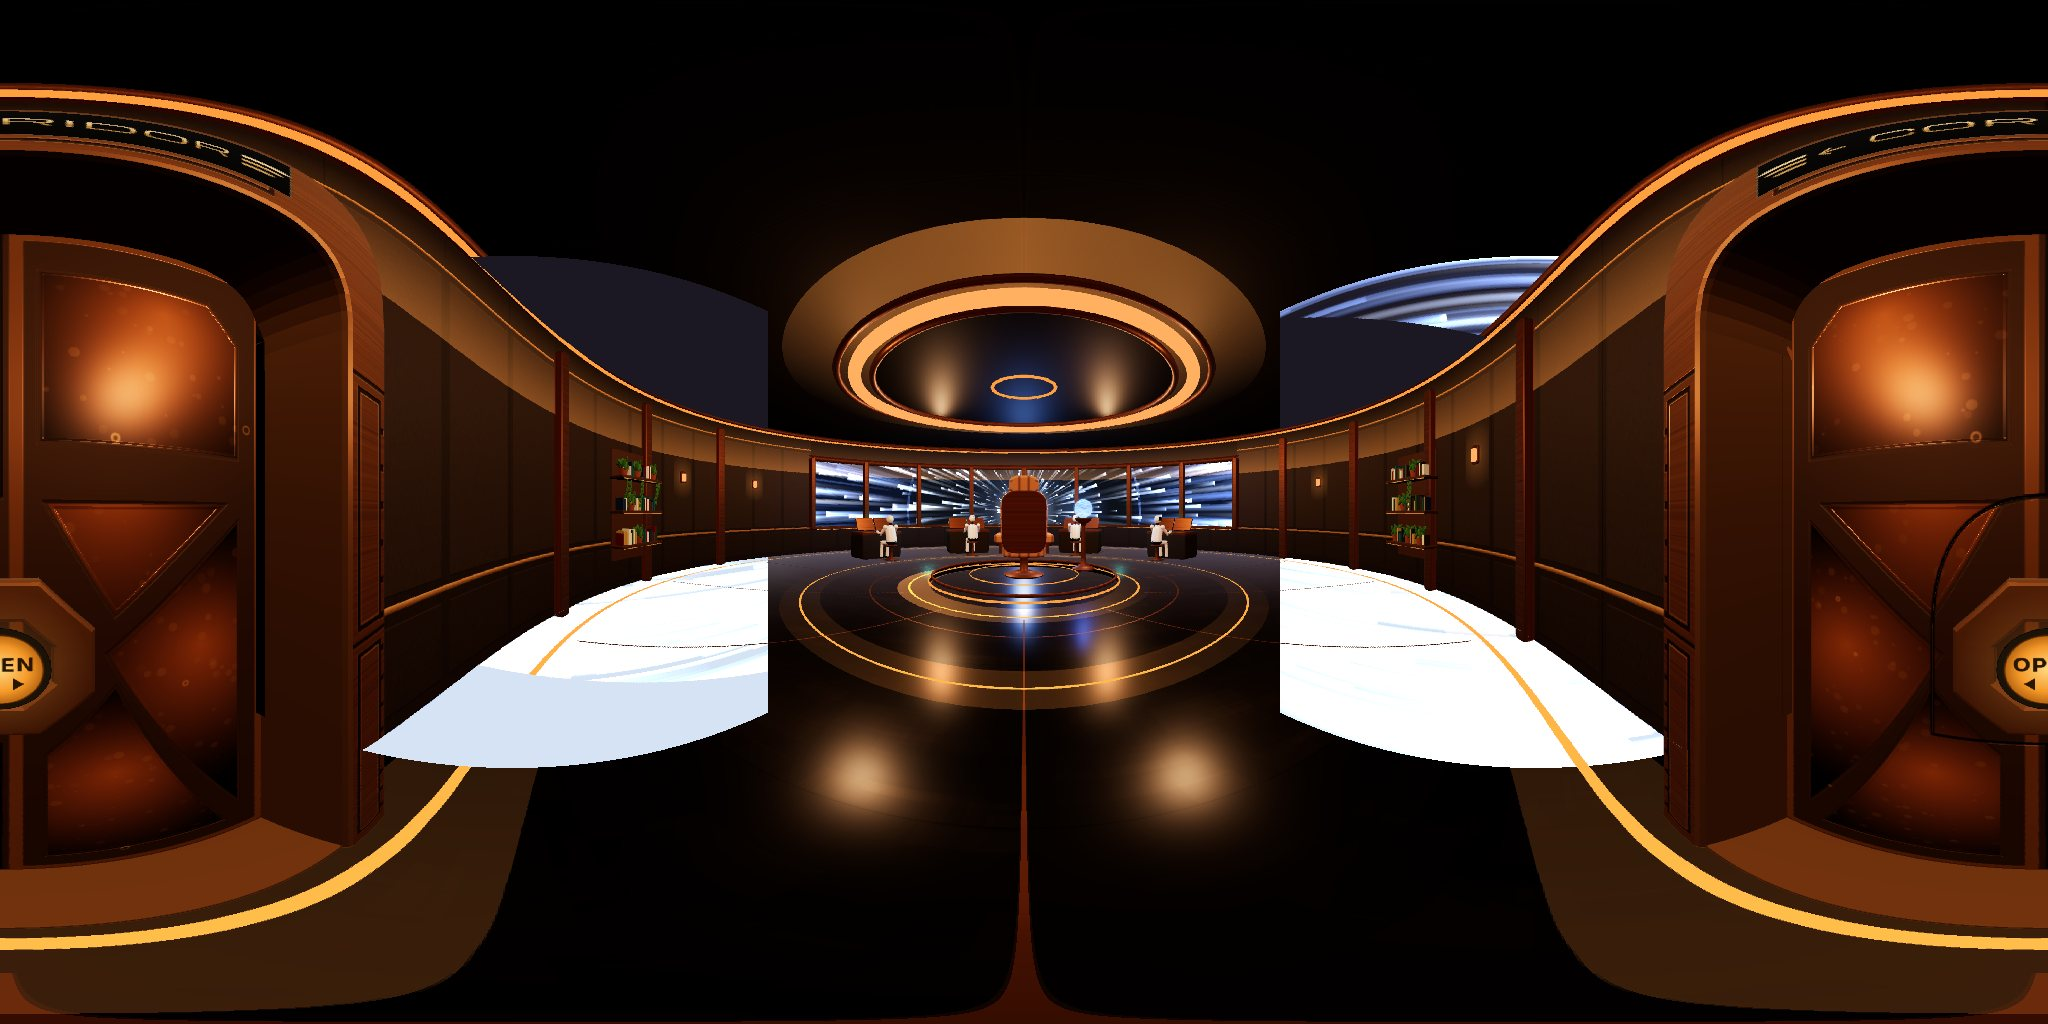
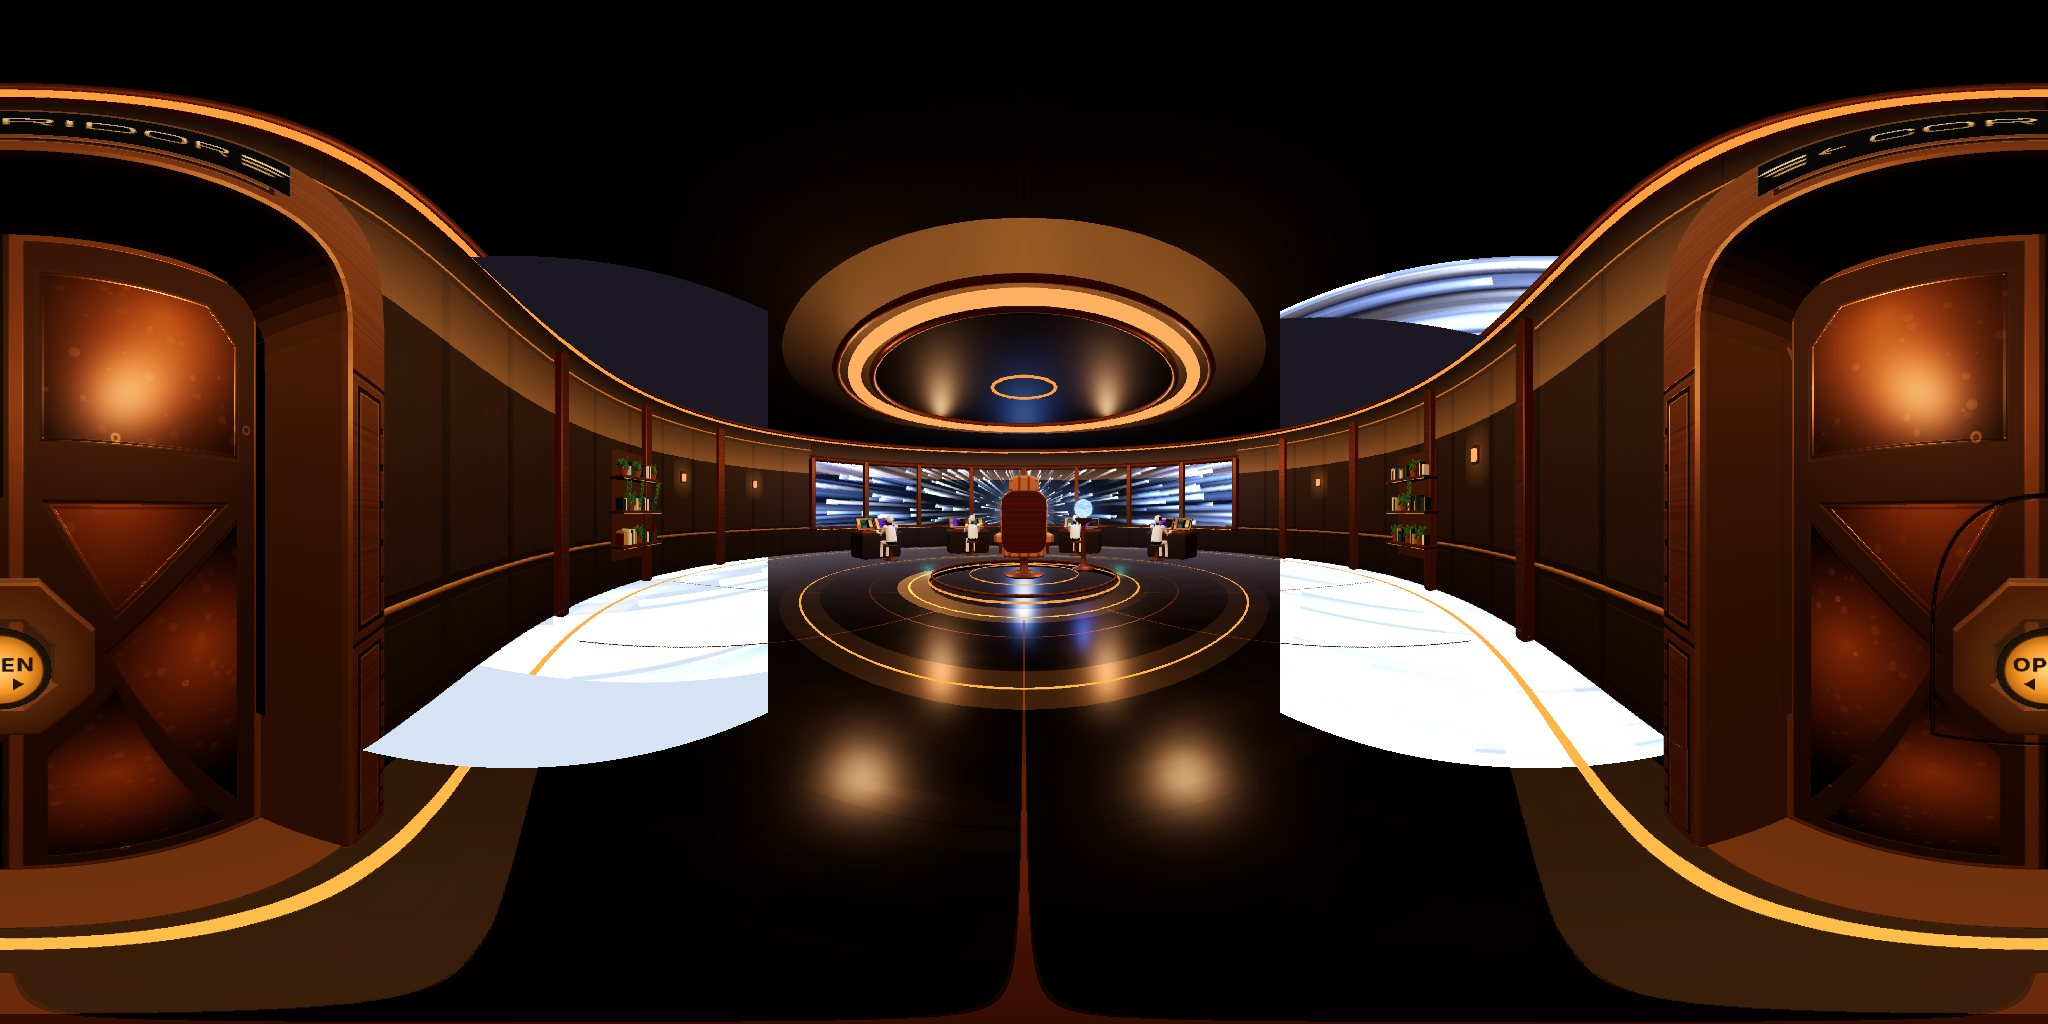
LCARS-style animated console panels on the Bridge (lcars.js); fix screens buried in their frames
Claude-Session: https://claude.ai/code/session_015swmRW9rk9HZt8JyLRwsXT

diff --git a/lcars.js b/lcars.js
@@ -1,0 +1,76 @@
+// SS Wayfarer — animated LCARS-style console panels (reference/lcars-ui.jpg), in the ship's palette:
+// tan/amber/peach frames on black, teal readouts, violet bar-graph cells. One canvas per panel, redrawn ~8×/s
+// (cheap on phones). Works with A-Frame's THREE or plain three r128.
+//   var p = WAYFARER.lcars({ w: 512, h: 320, seed: 3, layout: 'readout' | 'graph' | 'keys', label: 'NAV' });
+//   material.map = p.texture;   then every frame:  p.update(timeSeconds)
+(function () {
+  window.WAYFARER = window.WAYFARER || {};
+  var C = { tan: '#d9a066', amber: '#ffb347', peach: '#f5c48a', rose: '#a8645e', gold: '#ffd36b', teal: '#47d6c8', lilac: '#a99be0', violet: '#6a2cff', dim: '#3a2a1a' };
+  var FRAME = [C.tan, C.amber, C.peach, C.rose, C.gold];
+  function rng(a) { return function () { a |= 0; a = a + 0x6D2B79F5 | 0; var t = Math.imul(a ^ a >>> 15, 1 | a); t = t + Math.imul(t ^ t >>> 7, 61 | t) ^ t; return ((t ^ t >>> 14) >>> 0) / 4294967296; }; }
+  function h(n) { n = Math.sin(n * 127.1) * 43758.5453; return n - Math.floor(n); }
+  function pill(x, X, Y, W, H, col) { var r = H / 2; x.fillStyle = col; x.beginPath(); x.arc(X + r, Y + r, r, Math.PI / 2, Math.PI * 1.5); x.lineTo(X + W - r, Y); x.arc(X + W - r, Y + r, r, -Math.PI / 2, Math.PI / 2); x.closePath(); x.fill(); }
+  function text(x, s, X, Y, size, col, align) { x.save(); x.font = '600 ' + size + 'px "Arial Narrow","Helvetica Neue",Arial,sans-serif'; x.fillStyle = col; x.textAlign = align || 'left'; x.translate(X, Y); x.scale(0.78, 1); x.fillText(s, 0, 0); x.restore(); }
+  // the swept "elbow": thick bar along the top + thick column down the left, rounded outer corner, inner radius
+  function elbow(x, X, Y, W, H, bw, bh, col) {
+    var R = Math.min(bh * 1.6, W * 0.3), r = bh * 0.7; x.fillStyle = col; x.beginPath();
+    x.moveTo(X + R, Y); x.lineTo(X + W, Y); x.lineTo(X + W, Y + bh); x.lineTo(X + bw + r, Y + bh); x.quadraticCurveTo(X + bw, Y + bh, X + bw, Y + bh + r);
+    x.lineTo(X + bw, Y + H); x.lineTo(X, Y + H); x.lineTo(X, Y + R); x.quadraticCurveTo(X, Y, X + R, Y); x.fill();
+  }
+
+  window.WAYFARER.lcars = function (o) {
+    o = o || {};
+    var THREE = window.THREE || (window.AFRAME && AFRAME.THREE);
+    var W = o.w || 512, H = o.h || 320, seed = o.seed || 1, lay = o.layout || 'readout', label = o.label || 'LCARS', r = rng(seed * 991 + 7);
+    var c = document.createElement('canvas'); c.width = W; c.height = H; var x = c.getContext('2d');
+    var tex = new THREE.CanvasTexture(c);
+    if ('colorSpace' in tex && THREE.SRGBColorSpace) tex.colorSpace = THREE.SRGBColorSpace; else if (THREE.sRGBEncoding) tex.encoding = THREE.sRGBEncoding;
+    var bw = W * 0.16, bh = H * 0.075, fc = FRAME[seed % FRAME.length], code = (10 + (seed * 37) % 89) + '-' + (1000 + (seed * 7919) % 8999);
+    var topSegs = [0.42, 0.22, 0.2], last = -1;
+
+    function draw(t) {
+      x.fillStyle = '#000'; x.fillRect(0, 0, W, H);
+      // frame: elbow top-left, segmented top bar, a bottom bar with button labels
+      elbow(x, 0, 0, W * 0.5, H * 0.62, bw, bh, fc);
+      var sx = W * 0.5 + 4; topSegs.forEach(function (f, k) { var w = (W - sx) * f; x.fillStyle = FRAME[(seed + k + 1) % FRAME.length]; x.fillRect(sx, 0, w - 4, bh); text(x, (100 + (seed * 13 + k * 71) % 899) + '', sx + w - 10, bh * 0.8, bh * 0.7, '#000', 'right'); sx += w; });
+      pill(x, sx - 2, 0, W - sx + 2 + bh, bh, C.teal);
+      var yb = H - bh;
+      x.fillStyle = FRAME[(seed + 2) % FRAME.length]; x.beginPath(); x.moveTo(0, H * 0.64 + 4); x.lineTo(bw, H * 0.64 + 4); x.lineTo(bw, yb); x.lineTo(W, yb); x.lineTo(W, H); x.lineTo(bh, H); x.quadraticCurveTo(0, H, 0, H - bh); x.fill();
+      ['INIT', 'CALIBRATE', 'REF', 'MODE'].forEach(function (s, k) { var bx = bw + 6 + k * (W - bw) / 4; x.fillStyle = '#000'; x.fillRect(bx - 4, yb, 4, bh); text(x, s, bx + 4, H - bh * 0.22, bh * 0.66, '#000'); });
+      text(x, label, bw - 6, H * 0.6 - 6, bh * 0.75, '#000', 'right');
+      text(x, code, bw - 6, H - bh - 6, bh * 0.6, '#000', 'right');
+      // a light sweeping down the left column
+      var sw = (t * 0.35 + seed * 0.13) % 1; var g = x.createLinearGradient(0, sw * H - 30, 0, sw * H + 30); g.addColorStop(0, 'rgba(255,255,255,0)'); g.addColorStop(0.5, 'rgba(255,240,200,0.35)'); g.addColorStop(1, 'rgba(255,255,255,0)');
+      x.fillStyle = g; x.fillRect(0, bh * 1.5, bw, H - bh * 3);
+
+      var cx = bw + 16, cy = bh + 14, cw = W - cx - 12, ch = yb - cy - 10;
+      if (lay === 'graph') {
+        // violet bar-graph grid, levels breathing
+        var cols = 14, rows = 5, gw = cw / cols, gh = ch / rows;
+        for (var rr = 0; rr < rows; rr++) { var lvl = Math.floor(cols * (0.35 + 0.3 * Math.sin(t * (0.6 + h(rr + seed) * 1.2) + rr * 1.7 + seed) + 0.2 * h(Math.floor(t * 2) + rr)));
+          for (var cc = 0; cc < cols; cc++) { x.strokeStyle = 'rgba(255,170,90,0.35)'; x.lineWidth = 1; x.strokeRect(cx + cc * gw + 1, cy + rr * gh + 2, gw - 2, gh - 4); if (cc < lvl) { x.fillStyle = cc > cols * 0.8 ? C.lilac : C.violet; x.fillRect(cx + cc * gw + 2, cy + rr * gh + 3, gw - 4, gh - 6); } } }
+        x.fillStyle = '#ff5a3a'; var mk = cx + ((t * 0.12 + seed * 0.3) % 1) * cw; x.fillRect(mk, cy - 4, 2, ch + 8);
+      } else if (lay === 'keys') {
+        // rows of pill keys; one lights at a time, walking along
+        var kc = 6, kr = 3, kw = cw / kc, kh = ch / kr, on = Math.floor(t * 3 + seed * 5) % (kc * kr);
+        for (var j = 0; j < kc * kr; j++) { var kx = cx + (j % kc) * kw, ky = cy + Math.floor(j / kc) * kh; pill(x, kx + 3, ky + 4, kw - 6, kh - 8, j === on ? '#fff3d0' : FRAME[(j * 7 + seed) % FRAME.length]); text(x, (10 + (j * 37 + seed) % 89) + '', kx + kw - 12, ky + kh * 0.66, kh * 0.4, '#000', 'right'); }
+      } else {
+        // number columns scrolling up with status dots, a pulsing core gauge on the right
+        var lh = ch / 8, step = Math.floor(t * 2.5), off = (t * 2.5 % 1) * lh, tw = cw * 0.58;
+        x.save(); x.beginPath(); x.rect(cx, cy, tw, ch); x.clip();
+        for (var n = -1; n < 9; n++) { var row = step + n + seed * 31, yy = cy + (n + 1) * lh - off;
+          var d1 = h(row) < 0.5, d2 = h(row + 0.5) < 0.4; if (d1) { x.fillStyle = C.teal; x.beginPath(); x.arc(cx + 6, yy - lh * 0.3, lh * 0.18, 0, 7); x.fill(); } if (d2) { x.fillStyle = C.tan; x.beginPath(); x.arc(cx + 18, yy - lh * 0.3, lh * 0.18, 0, 7); x.fill(); }
+          var s = ''; for (var q = 0; q < 4; q++) s += ('00' + Math.floor(h(row * 4 + q) * 999)).slice(-3) + ' ';
+          text(x, s, cx + 30, yy, lh * 0.72, h(row + 0.2) < 0.3 ? C.amber : C.teal); }
+        x.restore();
+        var gx = cx + tw + 10, gwid = cw - tw - 10, nseg = 7, sh = ch / (nseg + 1), pulse = Math.floor(t * 4) % nseg;
+        for (var k2 = 0; k2 < nseg; k2++) pill(x, gx + gwid * 0.15, cy + k2 * sh + sh * 0.5, gwid * 0.7, sh * 0.75, k2 === pulse ? '#fff6d8' : (k2 % 2 ? C.gold : C.amber));
+        x.fillStyle = '#000'; x.fillRect(gx + gwid * 0.48, cy + sh * 0.4, gwid * 0.04, ch - sh * 0.6);
+        text(x, (Math.floor(t * 7 + seed * 100) % 1000 + '').padStart(3, '0'), gx + gwid * 0.5, cy + ch, sh * 0.8, C.peach, 'center');
+      }
+      tex.needsUpdate = true;
+    }
+    draw(0);
+    return { canvas: c, texture: tex, update: function (t) { var f = Math.floor(t * 8); if (f !== last) { last = f; draw(t); } } };
+  };
+}());

diff --git a/bridge.html b/bridge.html
@@ -19,6 +19,7 @@
   <script src="mobile.js"></script>
   <script src="door.js"></script>
   <script src="hyperspace.js"></script>
+  <script src="lcars.js"></script>
   <style>
     * { margin: 0; padding: 0; box-sizing: border-box; }
     body { overflow: hidden; background: #000; }
@@ -301,11 +302,13 @@
         mesh(top, M.bronze, g, 0, 0.86, 0);
         var strip = mesh(new THREE.BoxGeometry(1.5, 0.015, 0.015), M.amber, g, 0, 0.82, 0.43);
         [-0.37, 0.37].forEach(function (sx, j) {
-          var scr = mesh(new THREE.PlaneGeometry(0.62, 0.4), new THREE.MeshBasicMaterial({ map: screenTexture(si * 7 + j), toneMapped: false }), g, sx, 1.16, -0.12); scr.rotation.x = -0.45;
+          var lc = WAYFARER.lcars({ w: 512, h: 330, seed: si * 2 + j + 1, layout: ['readout', 'graph'][(si + j) % 2], label: ['HELM', 'NAV', 'OPS', 'TAC', 'SCI', 'ENG', 'COMM', 'AUX'][si * 2 + j] }); anim.push(lc.update);
+          var scr = mesh(new THREE.PlaneGeometry(0.62, 0.4), new THREE.MeshBasicMaterial({ map: lc.texture, toneMapped: false }), g, sx, 1.185, -0.085); scr.rotation.x = -0.45;   // in front of the frame's face (the extruded frame used to cover it)
           var fr = mesh(soft(rrect(0.68, 0.46, 0.04), 0.03, 0.01), M.bronze, g, sx, 1.16, -0.135); fr.rotation.x = -0.45;
           var arm2 = mesh(new THREE.CylinderGeometry(0.02, 0.02, 0.25, 8), M.bronze, g, sx, 0.98, -0.2);
         });
-        var keys = mesh(new THREE.PlaneGeometry(1.1, 0.26), new THREE.MeshBasicMaterial({ map: screenTexture(si * 13 + 5, '#ffb060'), toneMapped: false, transparent: true, opacity: 0.9 }), g, 0, 0.905, 0.18); keys.rotation.x = -Math.PI / 2;
+        var kl = WAYFARER.lcars({ w: 512, h: 121, seed: si + 11, layout: 'keys', label: 'INPUT' }); anim.push(kl.update);
+        var keys = mesh(new THREE.PlaneGeometry(1.1, 0.26), new THREE.MeshBasicMaterial({ map: kl.texture, toneMapped: false, transparent: true, opacity: 0.95 }), g, 0, 0.95, 0.18); keys.rotation.x = -Math.PI / 2;
         var sg = mesh(new THREE.PlaneGeometry(1.6, 0.9), add(dot, 0x3fd8d0, 0.25), g, 0, 1.2, -0.2); sg.rotation.x = -0.45;
         robot(g, si);
       });

diff --git a/CLAUDE.md b/CLAUDE.md
@@ -174,7 +174,9 @@ Guidelines, not orders: don't destroy what's built if an item doesn't fit.
 - [x] Holodeck console buttons cut by the bronze rim (fixed)
 - [x] Door nameplates in the logo style: Michroma (fonts/michroma.woff2, OFL) gold on black + triple-bar wings (door.js)
 - [x] No lettering across the top of the screen (#hud hidden everywhere)
-- [ ] LCARS-inspired UI animations (Star Trek) — on consoles/screens, in the ship's amber palette
+- [x] LCARS-style animated panels: shared `lcars.js` (`WAYFARER.lcars({w,h,seed,layout:'readout'|'graph'|'keys',label})`,
+  redraws ~8 fps). On the Bridge's 8 console screens + 4 key panels (screens were hidden inside their frames before — fixed).
+  Next candidates: Holodeck console, Media Nexus, Flight Mode HUD.
 - [x] Bio-engineered alien ship: BIOSHIP carrier boss in Flight Mode every 3rd wave (`buildBioship`, procedural flesh textures,
   pale carapace, scalloped drooping skirt, red-orange window rows, spiky drone pods). 30 HP, boss bar, volleys, launches drones.
 - [x] Space outside (Flight Mode): SYSTEM table of 7 worlds (terran, clay desert, ringed gas giants, ice, lava, toxic), moons,
